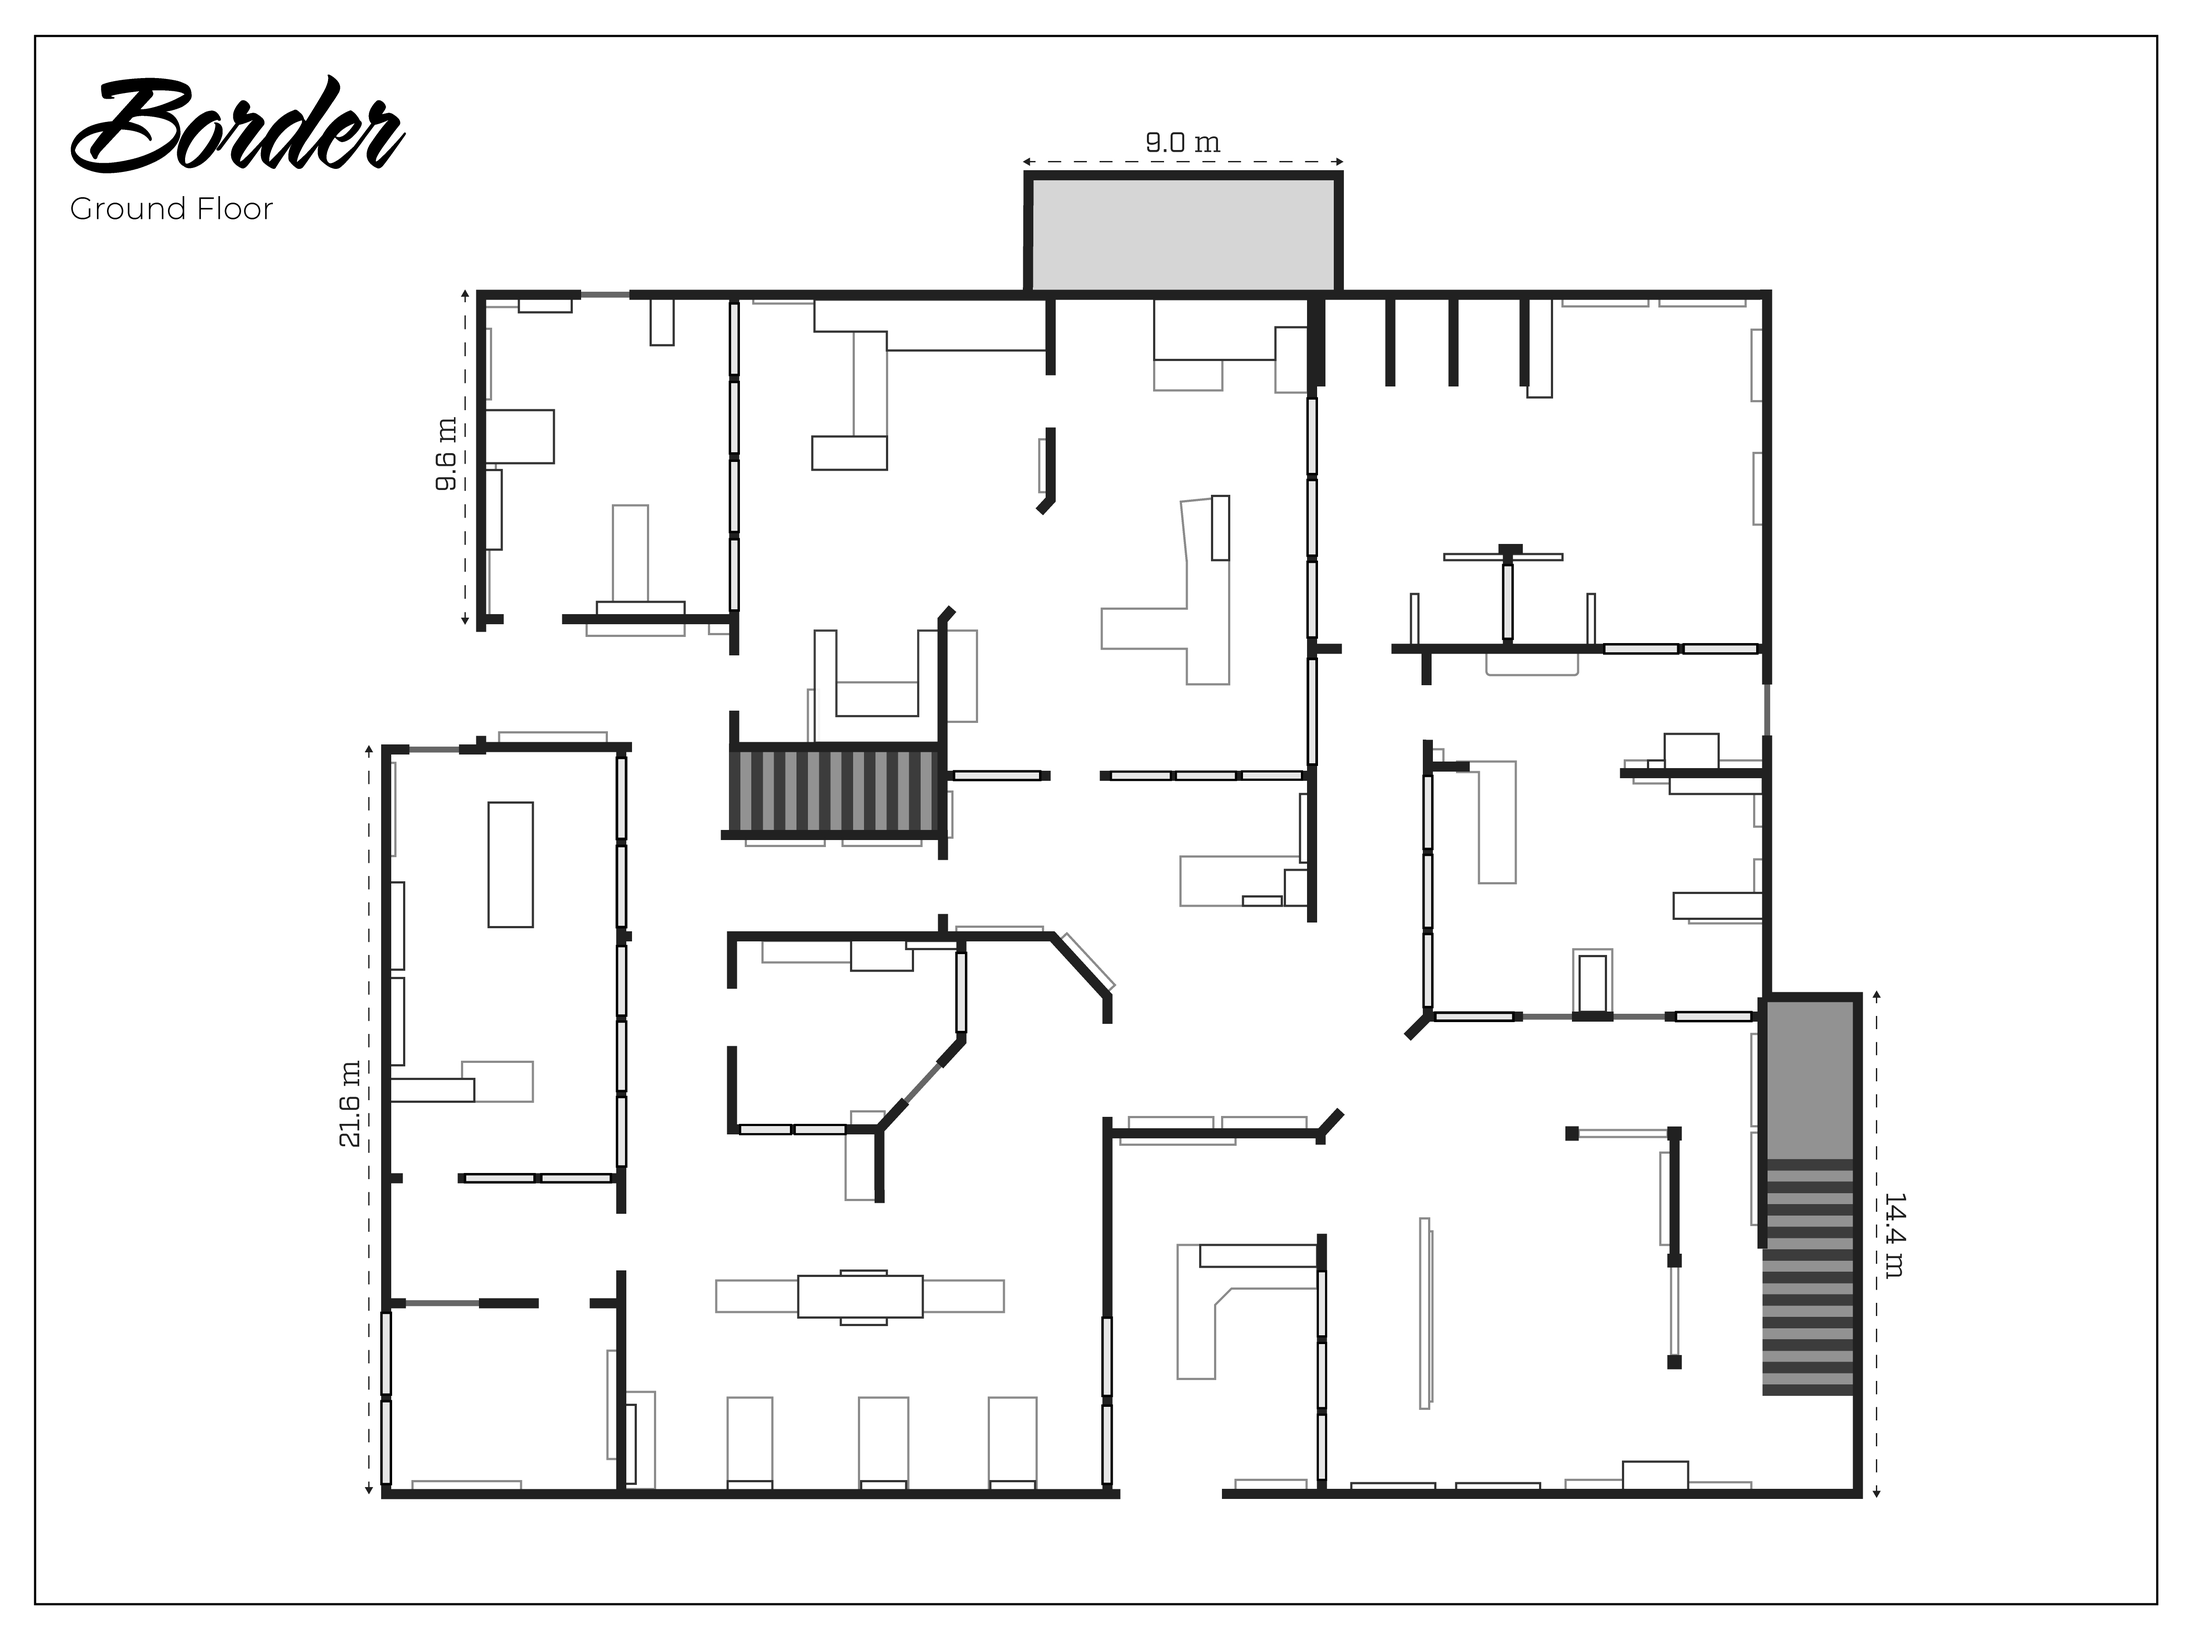
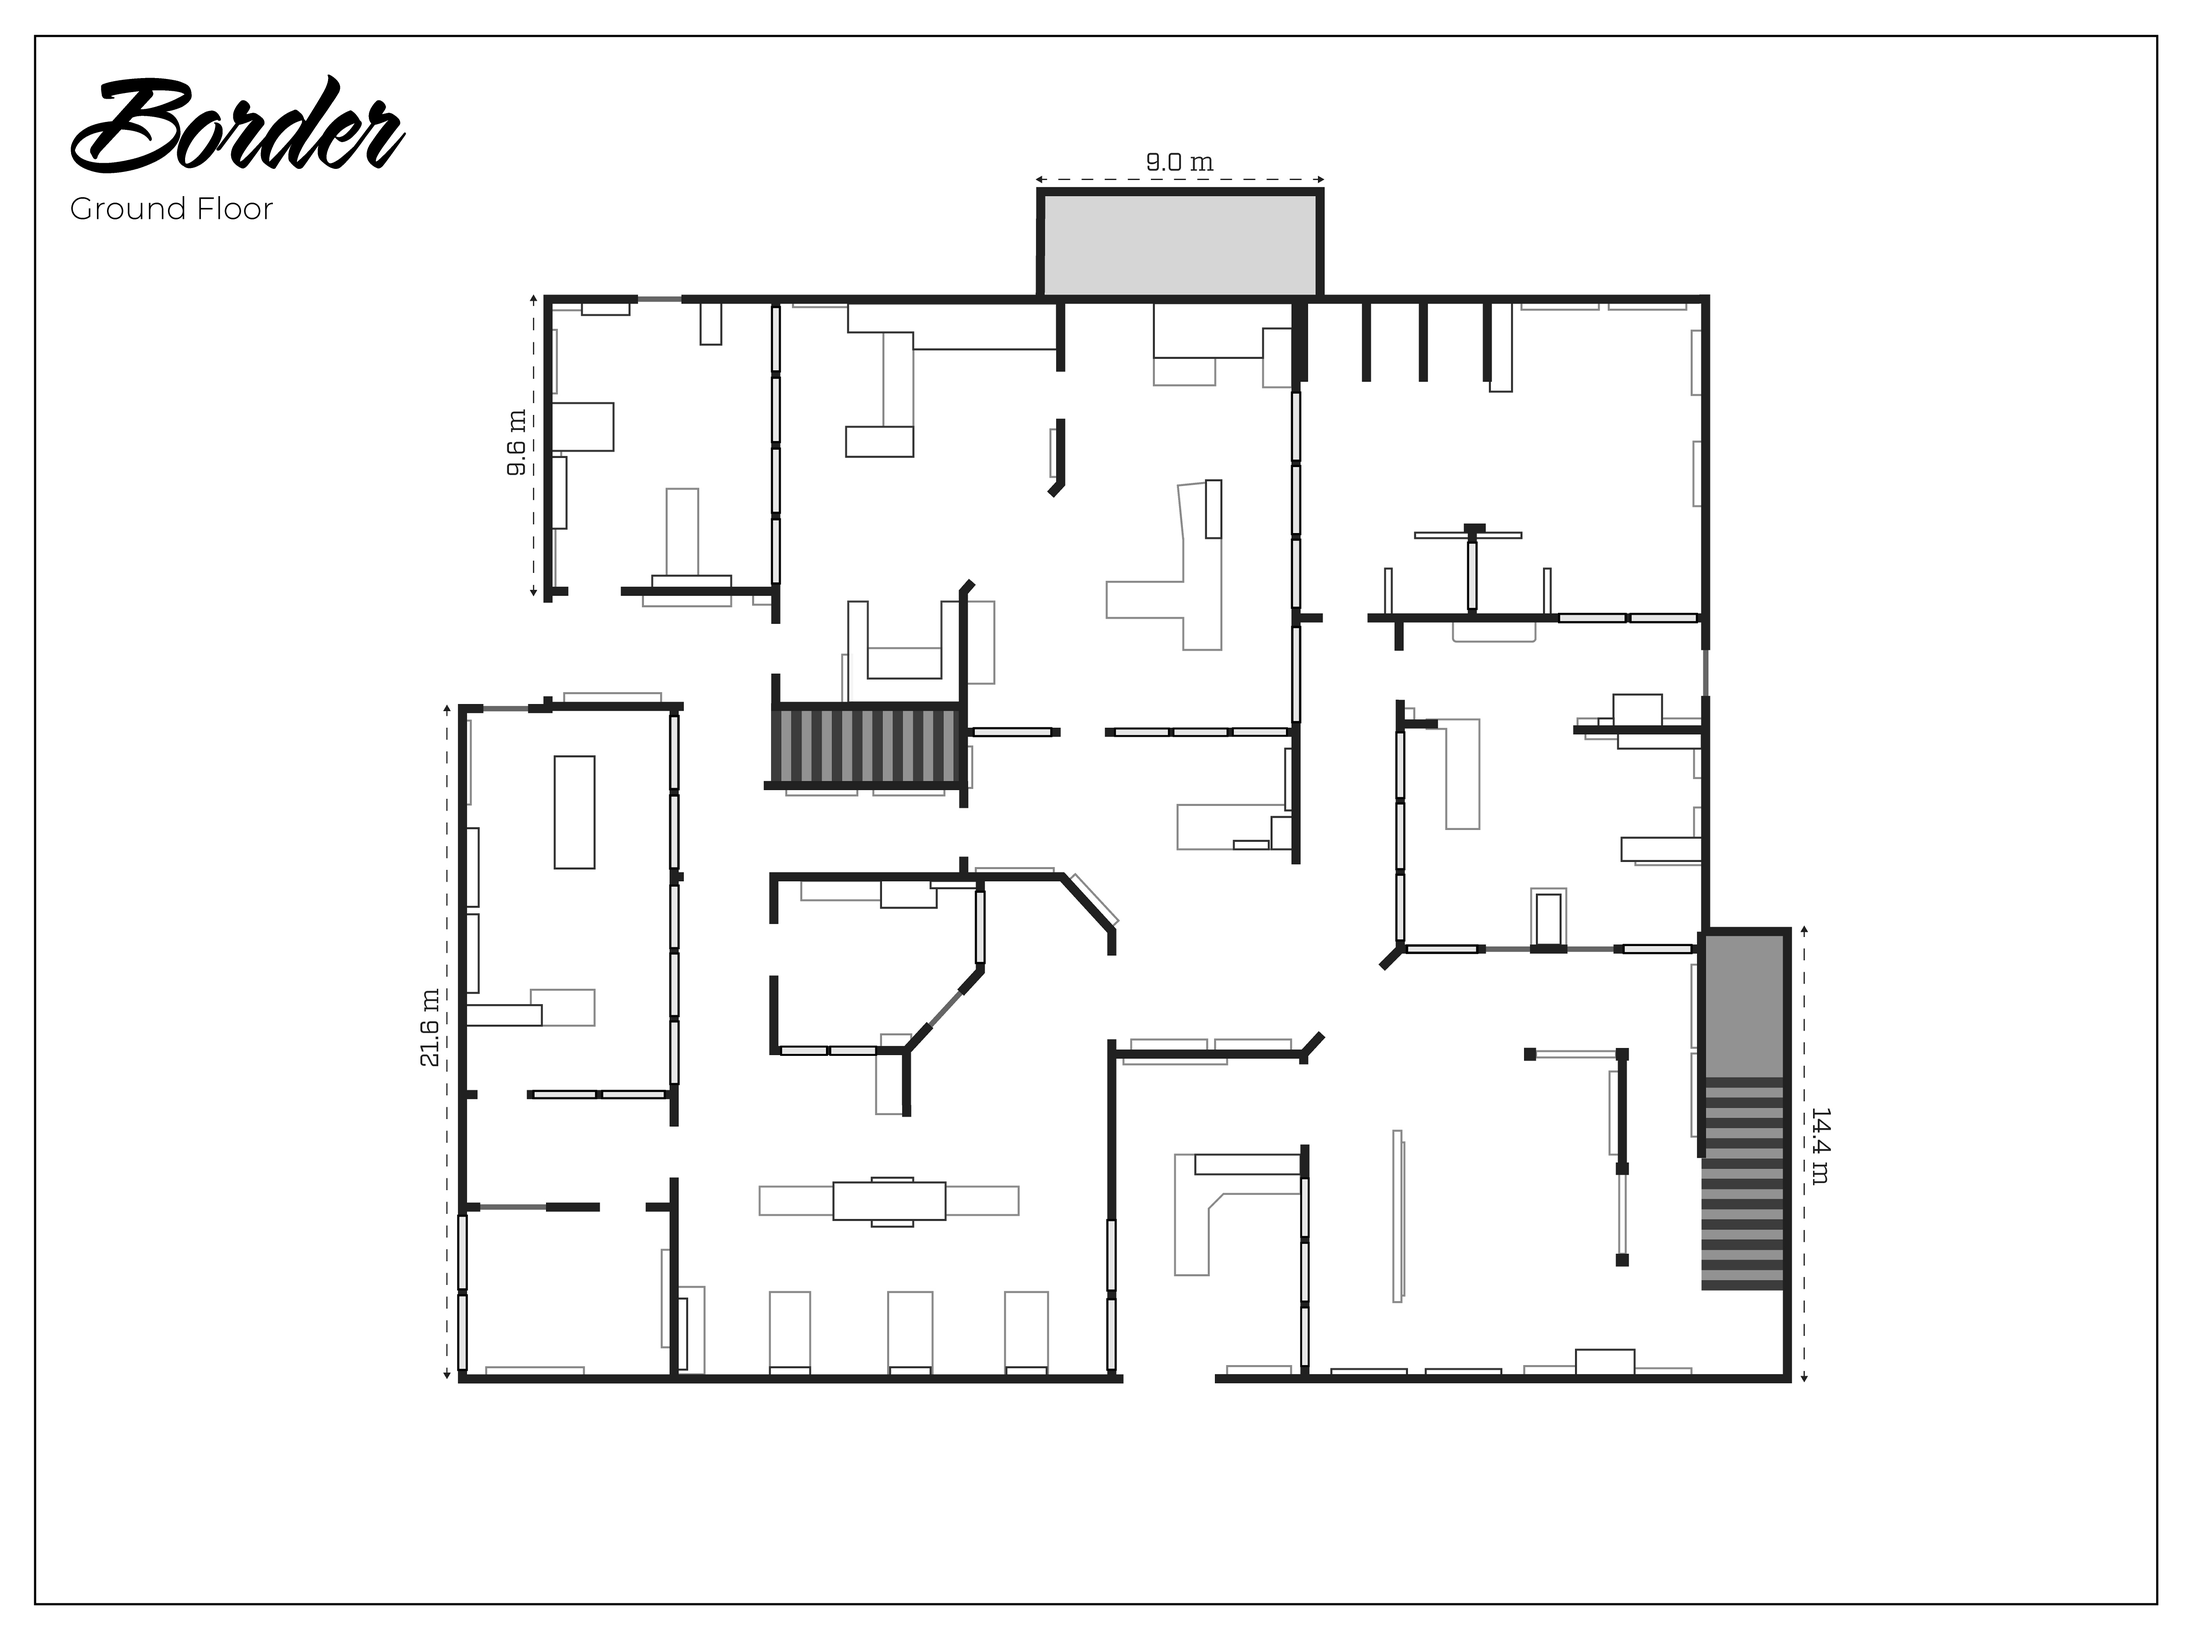
Resample Border ground floor onto the top floor's scale and position
The Sternab ground floor is drawn at 82.2 px/m against 74 px/m for the top
floor and on a different offset (replay fits per floor, image registration
of the two floors: ratio 0.90-0.91, the floors' own scale bars agree). The
ground floor is now resampled into the top floor's frame with its frame and
heading kept in place, so the floors line up when switching. Callouts move
with the drawing.

Changed region(s): [[0.156, 0.0936, 0.8736, 0.936], [0.468, 0.2496, 0.4992, 0.312]]

diff --git a/docs/content.md b/docs/content.md
@@ -57,6 +57,9 @@ Villaの構造変更は地下のみのため、2階・1階はSternab氏の`Villa
 | --- | --- | --- |
 | Fortress | 南北方向が1.42倍に圧縮。2階は1階の0.90倍の縮尺で別の位置。2階南東の階段がない | 両階層のSVGを同じ縮尺（54 px/m、4800×3600）へ変換。2階南東にU字階段を追加 |
 | アジト | 3階層とも東西方向が1.19倍に引き伸ばされていた（縦横の縮尺64.7×54.6 px/m） | 3階層のSVGの図形を東西方向に0.843倍し、54.57 px/mの同一縮尺で中央に配置。見出しと枠は固定 |
+| Border | 1階が2階の1.11倍（82.2対74 px/m）の縮尺で別の位置 | 1階を2階の縮尺・位置へ再標本化。2階は原図のまま |
+
+Sternab氏の画像を補正した階層は、原図を軸ごとの拡大縮小と平行移動だけで再標本化（バイキュービック）し、外枠と見出しは原図の位置のまま残しています。`sourceFile`は元の原図名のままで、`assets/map-sources/`のJPEGが補正版です（sharpで品質98、4:4:4）。出典はSternab氏のままです。補正していない階層は原図と同一のファイルです。
 
 SVGの階層は、元の図形を保ったまま外側の`world-scale`グループで変換しています。JPEGはsharpでSVGを白背景に合成して書き出します。Fortress・Villa地下は品質95、アジトは品質98で、いずれも色差4:4:4です。
 
